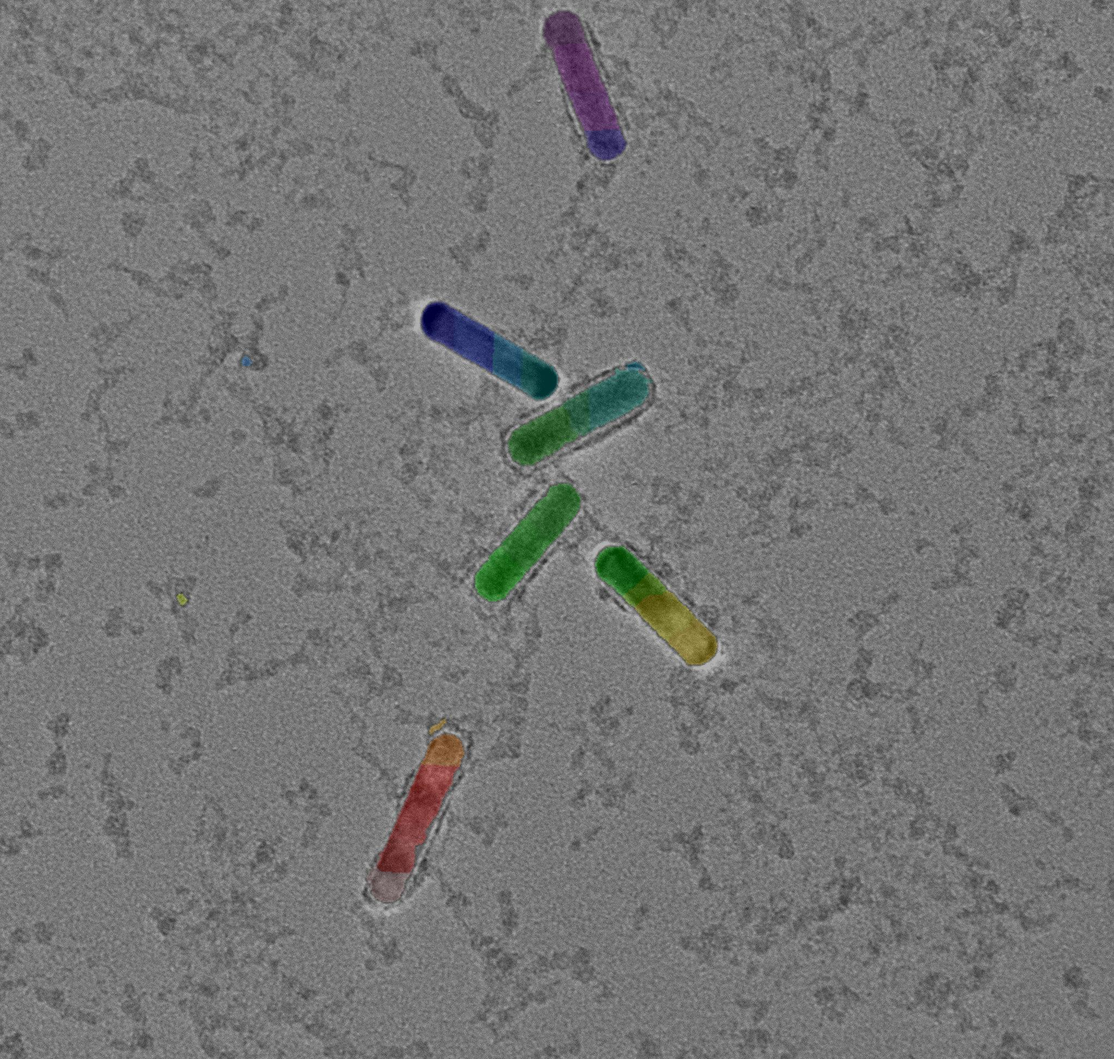
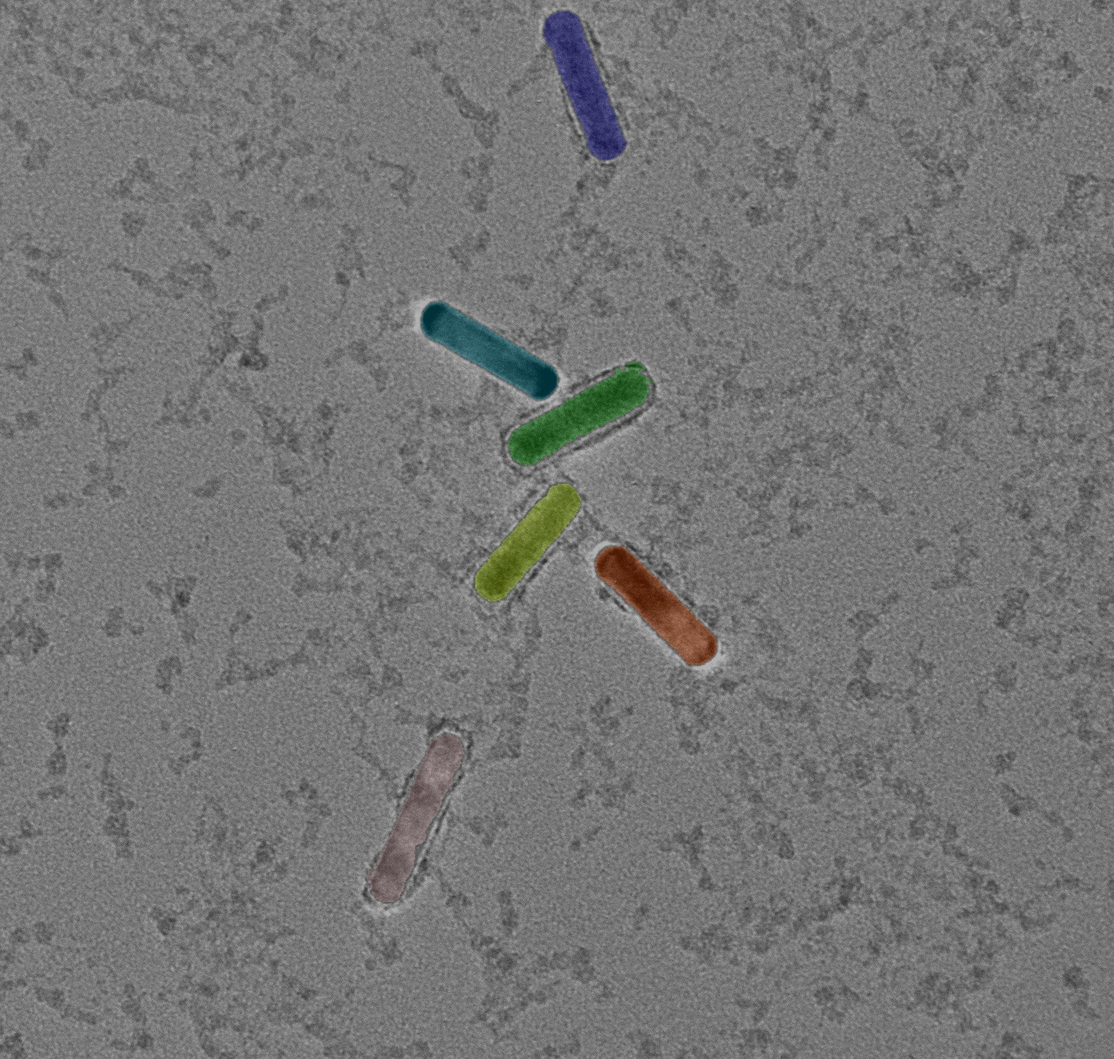
start with object oriented version

diff --git a/img_fcn.py b/img_fcn.py
@@ -15,7 +15,7 @@ from skimage.segmentation import watershed
 from skimage.feature import peak_local_max, canny
 from skimage.transform import rescale, hough_circle, hough_circle_peaks
 from skimage.measure import regionprops_table, label
-from skimage.morphology import remove_small_holes, remove_small_objects, disk
+from skimage.morphology import remove_small_holes, remove_small_objects, disk, erosion
 
 
 def load_inputs(img_path):
@@ -86,6 +86,7 @@ def loading_img(img_path, scale):
     mask = remove_small_objects(mask)
     indices = np.where(mask)
     length = max(indices[1]) - min(indices[1])
+    global pixel_size
     pixel_size = scale / length
 
     img_raw = img_raw[0:-100, :]
@@ -162,7 +163,7 @@ def binarizing(img, np_type):
     return binary
 
 
-def watershed_transform(binary):
+def watershed_transform(binary, np_type):
     """Label image using calculated
     distance map and markers for watershed transform
 
@@ -172,14 +173,24 @@ def watershed_transform(binary):
     Returns:
         numpy.ndarray: labeled image
     """
-    distance = ndi.distance_transform_edt(binary)
 
-    coords = peak_local_max(distance, footprint=np.ones((3, 3)), min_distance=20)
-    mask = np.zeros(distance.shape, dtype=bool)
-    mask[tuple(coords.T)] = True
+    distance = ndi.distance_transform_edt(binary)
+    img = -distance
+    
+    if np_type == 'nanoparticles':
+        coords = peak_local_max(distance, footprint=np.ones((3, 3)), min_distance=20)
+        mask = np.zeros(distance.shape, dtype=bool)
+        mask[tuple(coords.T)] = True
+    else:
+        mask =  binary
+        for _ in range(10):
+            mask = remove_small_holes(mask)
+            mask = remove_small_objects(mask)
+        for _ in range(10):
+            mask = erosion(mask)
 
     markers, _ = ndi.label(mask)
-    labels = watershed(-distance, markers, mask=binary)
+    labels = watershed(img, markers, mask=binary)
 
     return labels
 
@@ -197,7 +208,7 @@ def segmentation(img, binary, np_type, pixel_size):
     Returns:
         numpy.ndarray, list: labeled image, ist of sizes
     """
-    labels = watershed_transform(binary)
+    labels = watershed_transform(binary, np_type)
     sizes, props_watershed = calculation_watershed(labels, np_type)
     labels, props_watershed = filter_blobs(labels, sizes, props_watershed)
 
@@ -406,6 +417,7 @@ def hough_segmentation(img, pixel_size, np_type):
 def inside_circles(props):
 
     for x, y, r in props:
+        print(x, y, r*pixel_size)
         x1 = x - r
         x2 = x + r
         y1 = y - r

diff --git a/img_obj.py b/img_obj.py
@@ -1,0 +1,50 @@
+"""Analyze TEM images on gold nanoparticles"""
+import numpy as np
+import cv2
+import matplotlib.pyplot as plt
+from scipy import ndimage as ndi
+import json
+import os
+import re
+import argparse
+from copy import deepcopy, copy
+from skimage.io import imread
+from skimage.filters import threshold_otsu, threshold_minimum, median
+from skimage.color import rgb2gray
+from skimage.segmentation import watershed
+from skimage.feature import peak_local_max, canny
+from skimage.transform import rescale, hough_circle, hough_circle_peaks
+from skimage.measure import regionprops_table, label
+from skimage.morphology import remove_small_holes, remove_small_objects, disk, erosion
+
+class NPImage:
+    def __init__(self, img_path, scale, np_type):
+        try:
+            self.img = imread(img_path)
+        except Exception as err:
+            print(err)
+            raise Exception("wrong input: image cannot be open")
+        
+        self.find_scale(scale)
+        self.crop()
+        self.prepare()
+        self.filter()
+        
+    def find_scale(self, scale):
+        width = self.img.shape[1]
+        line = self.img[-100:, int(width / 2) :, :]
+        line = cv2.cvtColor(line, cv2.COLOR_RGB2GRAY)
+        mask = line < 10
+        mask = remove_small_objects(mask)
+        indices = np.where(mask)
+        length = max(indices[1]) - min(indices[1])
+        self.pixel_size = scale / length
+
+    def prepare(self):
+        self.img = self.img[0:-100, :]
+        self.img = rgb2gray(self.img)
+        self.img = rescale(self.img, 0.5)
+        self.pixel_size *= 2
+
+    def filter(self):
+        
